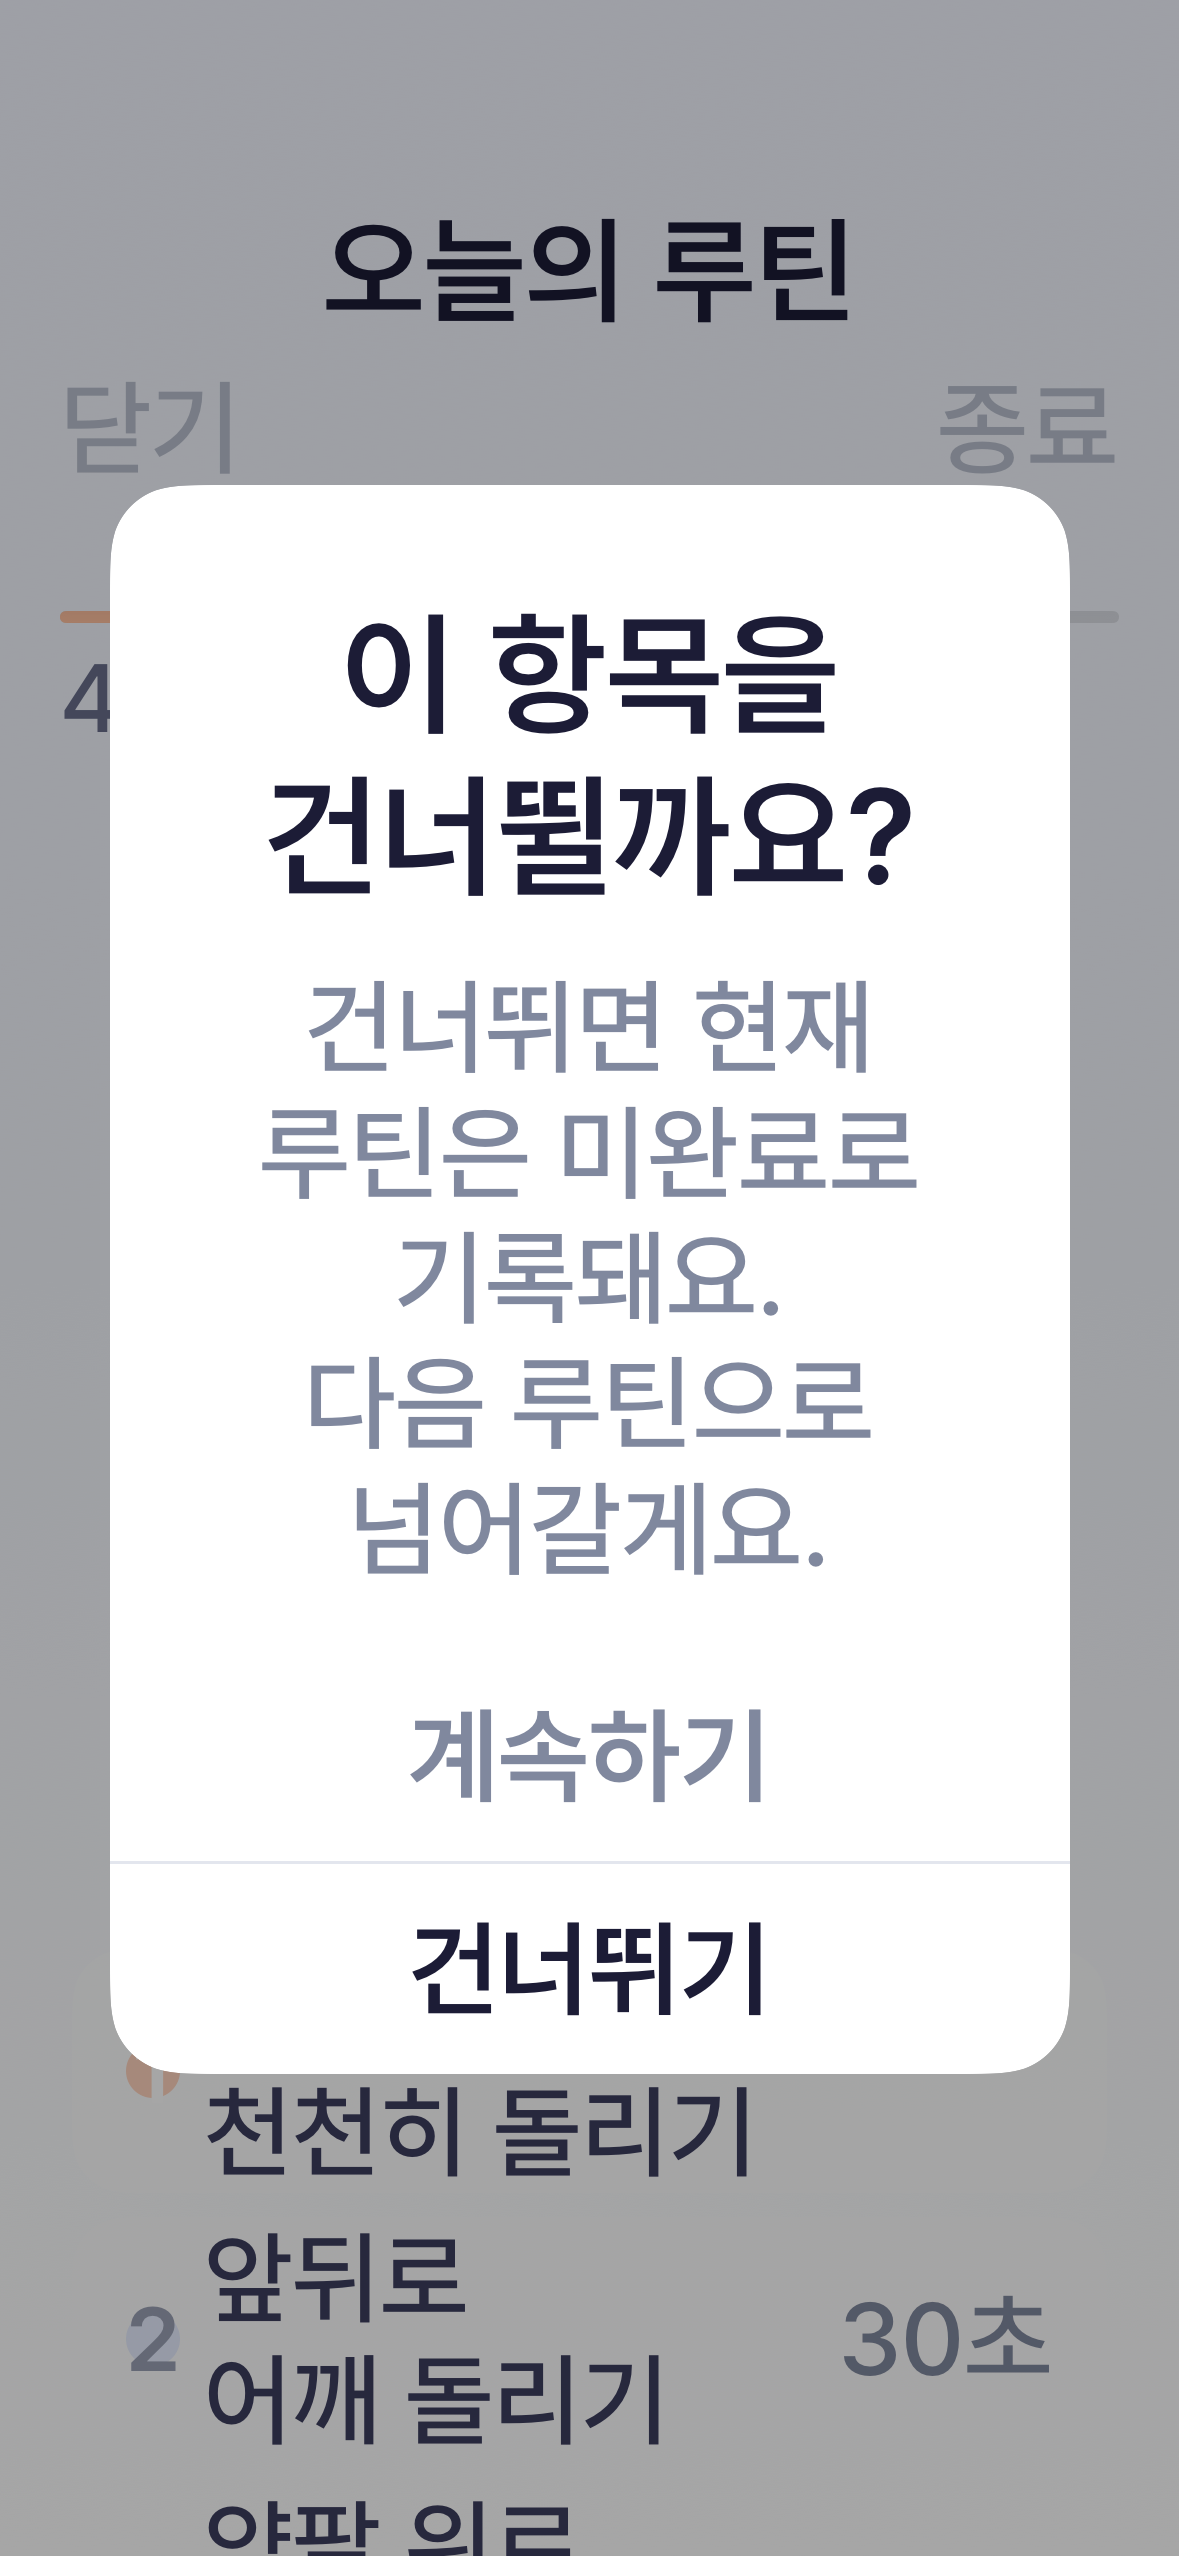
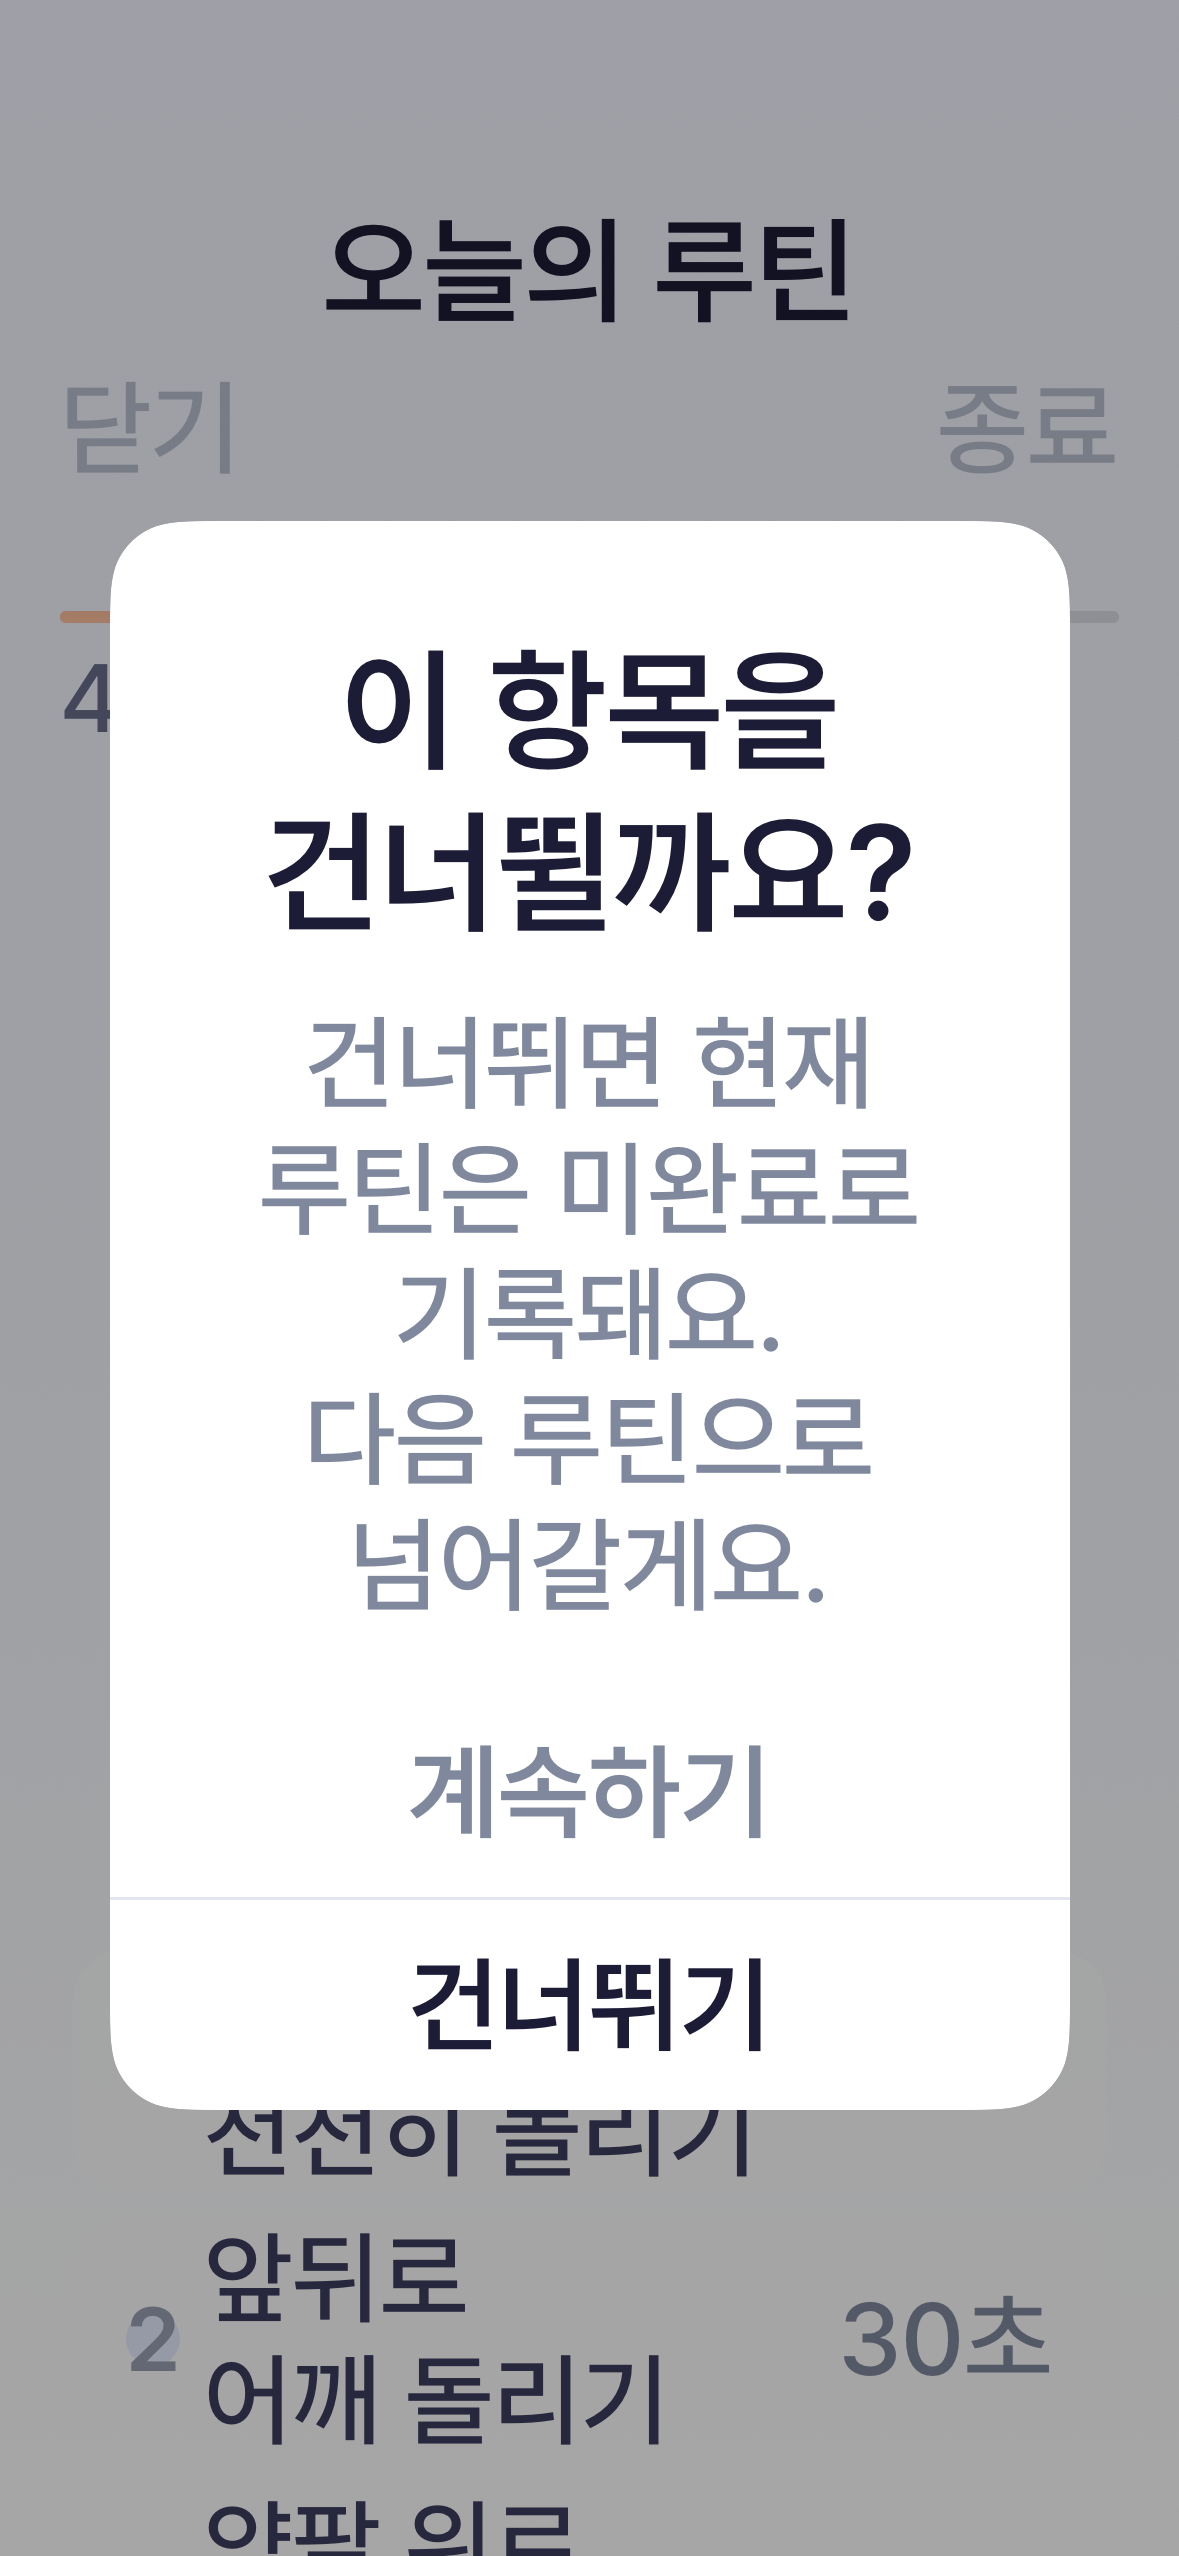
[Fix] RoutinePlayer 리뷰 피드백 반영

Changed region(s): [[0.0916, 0.1854, 0.916, 0.8345]]

diff --git a/Moru/MoruTests/RoutinePlayerFigmaVisualTests.swift b/Moru/MoruTests/RoutinePlayerFigmaVisualTests.swift
@@ -7,6 +7,7 @@
 
 import Foundation
 import SwiftUI
+import UIKit
 import XCTest
 @testable import Moru
 
@@ -57,6 +58,12 @@ final class RoutinePlayerFigmaVisualTests: XCTestCase {
         "제자리 가볍게 걷기",
       ]
     )
+    XCTAssertEqual(
+      RoutinePlayerCopy.timerSegments(for: stretchingStep)?.map {
+        $0.durationSeconds ?? 60
+      },
+      [60, 30, 30, 60]
+    )
   }
 
   func testRoutinePlayerStatesRenderDeterministicallyAtReferenceVariants() async throws {
@@ -86,8 +93,97 @@ final class RoutinePlayerFigmaVisualTests: XCTestCase {
         XCTAssertEqual(first.size, CGSize(width: 393, height: 852))
         XCTAssertEqual(first.scale, 3)
         XCTAssertEqual(first.pngData(), second.pngData())
+        try assertMatchesApprovedBaseline(
+          first,
+          state: state,
+          variant: variant
+        )
       }
     }
+  }
+
+  private func assertMatchesApprovedBaseline(
+    _ image: UIImage,
+    state: RoutinePlayerCaptureState,
+    variant: MoruVisualCaptureVariant,
+    file: StaticString = #filePath,
+    line: UInt = #line
+  ) throws {
+    let baselineURL = URL(fileURLWithPath: #filePath)
+      .deletingLastPathComponent()
+      .deletingLastPathComponent()
+      .appendingPathComponent(
+        "docs/figma-pilot-review-bundle/P4-routine-player-completion/states"
+      )
+      .appendingPathComponent("\(state.rawValue)-\(variant.rawValue)")
+      .appendingPathComponent("after.png")
+    let baseline = try XCTUnwrap(
+      UIImage(contentsOfFile: baselineURL.path),
+      "Missing approved visual baseline: \(baselineURL.path)",
+      file: file,
+      line: line
+    )
+    let actualHash = try visualHash(for: image)
+    let baselineHash = try visualHash(for: baseline)
+    let distance = zip(actualHash, baselineHash).reduce(0) { result, pair in
+      result + Int((pair.0 ^ pair.1).nonzeroBitCount)
+    }
+
+    XCTAssertLessThanOrEqual(
+      distance,
+      24,
+      "Visual regression in \(state.rawValue)-\(variant.rawValue), "
+        + "hash distance: \(distance)",
+      file: file,
+      line: line
+    )
+  }
+
+  private func visualHash(for image: UIImage) throws -> Data {
+    let width = 17
+    let height = 32
+    var pixels = [UInt8](repeating: 0, count: width * height * 4)
+    let context = try XCTUnwrap(
+      CGContext(
+        data: &pixels,
+        width: width,
+        height: height,
+        bitsPerComponent: 8,
+        bytesPerRow: width * 4,
+        space: CGColorSpaceCreateDeviceRGB(),
+        bitmapInfo: CGImageAlphaInfo.premultipliedLast.rawValue
+      )
+    )
+    let cgImage = try XCTUnwrap(image.cgImage)
+    context.interpolationQuality = .high
+    context.draw(cgImage, in: CGRect(x: 0, y: 0, width: width, height: height))
+
+    var luminance = [Int]()
+    luminance.reserveCapacity(width * height)
+    for offset in stride(from: 0, to: pixels.count, by: 4) {
+      let red = 299 * Int(pixels[offset])
+      let green = 587 * Int(pixels[offset + 1])
+      let blue = 114 * Int(pixels[offset + 2])
+      luminance.append((red + green + blue) / 1_000)
+    }
+
+    var hash = Data(capacity: (width - 1) * height / 8)
+    var byte: UInt8 = 0
+    var bitIndex = 0
+    for row in 0..<height {
+      for column in 0..<(width - 1) {
+        if luminance[row * width + column] > luminance[row * width + column + 1] {
+          byte |= 1 << (7 - bitIndex)
+        }
+        bitIndex += 1
+        if bitIndex == 8 {
+          hash.append(byte)
+          byte = 0
+          bitIndex = 0
+        }
+      }
+    }
+    return hash
   }
 
   private func view(

diff --git a/Moru/Moru/RoutineFlow/RoutinePlayer/RoutinePlayerCopy.swift b/Moru/Moru/RoutineFlow/RoutinePlayer/RoutinePlayerCopy.swift
@@ -9,6 +9,7 @@ enum RoutinePlayerCopy {
   struct TimerSegment: Equatable {
     let title: String
     let duration: String?
+    let durationSeconds: Int?
   }
 
   private static let bedMakingPresetIDs: Set<String> = [
@@ -91,10 +92,26 @@ enum RoutinePlayerCopy {
     }
 
     return [
-      TimerSegment(title: "목 좌우로 천천히 돌리기", duration: nil),
-      TimerSegment(title: "앞뒤로 어깨 돌리기", duration: "30초"),
-      TimerSegment(title: "양팔 위로 쭉 뻗기", duration: "30초"),
-      TimerSegment(title: "제자리 가볍게 걷기", duration: "1분"),
+      TimerSegment(
+        title: "목 좌우로 천천히 돌리기",
+        duration: nil,
+        durationSeconds: nil
+      ),
+      TimerSegment(
+        title: "앞뒤로 어깨 돌리기",
+        duration: "30초",
+        durationSeconds: 30
+      ),
+      TimerSegment(
+        title: "양팔 위로 쭉 뻗기",
+        duration: "30초",
+        durationSeconds: 30
+      ),
+      TimerSegment(
+        title: "제자리 가볍게 걷기",
+        duration: "1분",
+        durationSeconds: 60
+      ),
     ]
   }
 }

diff --git a/Moru/Moru/RoutineFlow/RoutinePlayer/StepContents/TimerStepContentView.swift b/Moru/Moru/RoutineFlow/RoutinePlayer/StepContents/TimerStepContentView.swift
@@ -275,14 +275,7 @@ struct TimerStepContentView: View {
     private var activeTimerSegmentIndex: Int {
         guard let timerSegments else { return 0 }
         let segmentDurations = timerSegments.map { segment -> Int in
-            switch segment.duration {
-            case "30초":
-                return 30
-            case "1분":
-                return 60
-            default:
-                return 60
-            }
+            segment.durationSeconds ?? 60
         }
         let elapsedSeconds = max(totalSeconds - remainingSeconds, 0)
         var cumulativeSeconds = 0

diff --git a/Moru/Moru/RoutineFlow/RoutinePlayer/Dialogs/EndRoutineDialogView.swift b/Moru/Moru/RoutineFlow/RoutinePlayer/Dialogs/EndRoutineDialogView.swift
@@ -10,6 +10,7 @@ import SwiftUI
 struct EndRoutineDialogView: View {
     let onCancel: () -> Void
     let onConfirm: () -> Void
+    @Environment(\.dynamicTypeSize) private var dynamicTypeSize
 
     var body: some View {
         ZStack {
@@ -31,7 +32,7 @@ struct EndRoutineDialogView: View {
                 secondaryAction: onConfirm,
                 adaptsForAccessibility: true
             )
-            .offset(y: -12)
+            .offset(y: dynamicTypeSize.isAccessibilitySize ? 0 : -12)
         }
         .accessibilityAddTraits(.isModal)
     }

diff --git a/Moru/Moru/RoutineFlow/RoutinePlayer/Dialogs/SkipStepDialogView.swift b/Moru/Moru/RoutineFlow/RoutinePlayer/Dialogs/SkipStepDialogView.swift
@@ -10,6 +10,7 @@ import SwiftUI
 struct SkipStepDialogView: View {
     let onCancel: () -> Void
     let onConfirm: () -> Void
+    @Environment(\.dynamicTypeSize) private var dynamicTypeSize
 
     var body: some View {
         ZStack {
@@ -31,7 +32,7 @@ struct SkipStepDialogView: View {
                 secondaryAction: onConfirm,
                 adaptsForAccessibility: true
             )
-            .offset(y: -12)
+            .offset(y: dynamicTypeSize.isAccessibilitySize ? 0 : -12)
         }
         .accessibilityAddTraits(.isModal)
     }

diff --git a/Moru/Moru/RoutineFlow/RoutinePlayer/StepContents/InputStepContentView.swift b/Moru/Moru/RoutineFlow/RoutinePlayer/StepContents/InputStepContentView.swift
@@ -138,7 +138,7 @@ struct InputStepContentView: View {
         )
         .foregroundStyle(AppColor.gray350)
         .fixedSize(horizontal: false, vertical: true)
-        .accessibilityLabel("인식된 내용")
+        .accessibilityLabel(RoutinePlayerCopy.transcriptTitle(for: step))
         .accessibilityValue(speechInputController.displayTranscript)
     }
     .frame(maxWidth: .infinity, minHeight: 176, alignment: .topLeading)

diff --git a/Moru/Moru/DesignSystem/Components/MoruDialog.swift b/Moru/Moru/DesignSystem/Components/MoruDialog.swift
@@ -153,7 +153,8 @@ struct MoruDialog: View {
             width: 159.5
           )
         }
-        .frame(width: 320, height: 54)
+        .frame(width: 320)
+        .frame(minHeight: 54)
       }
     }
     .frame(width: 320)

diff --git a/Moru/docs/figma-pilot-review-bundle/P4-routine-player-completion/tests.md b/Moru/docs/figma-pilot-review-bundle/P4-routine-player-completion/tests.md
@@ -6,6 +6,7 @@
   - preset/fallback/구조화 copy
   - 12개 상태 × Medium/AX3 × 2회
   - 48개 PNG, 반복 결과 byte-identical
+  - checked-in approved After baseline과 perceptual hash distance `<= 24`
 - `RoutineFinishedFigmaVisualTests`: pass
   - 5개 상태 × Medium/AX3 × 2회
   - 20개 PNG, 반복 결과 byte-identical
@@ -13,7 +14,7 @@
 ## 자동 검증
 
 - 전체 XCTest: 266 passed, 0 failed, 0 skipped
-- P3/P4 시각 회귀 재검증: 4 passed, 0 failed, 0 skipped
+- P3/P4/D2 시각 회귀 재검증: 5 passed, 0 failed, 0 skipped
 - iPhone 16 simulator Debug build: passed
 - generic iOS device Debug build: passed
 - generic iOS device Release build: passed
@@ -21,6 +22,13 @@
 - `Scripts/check-swiftdata-boundary.sh`: passed
 - `plutil -lint Moru/Info.plist`: passed
 - `git diff --check`: passed
+
+CodeRabbit 후속 검토에서 adaptive dialog button row의 가변 높이,
+AX Dynamic Type의 Skip/End dialog 위치, transcript accessibility label,
+approved visual baseline assertion을 보강했다. 표시용 timer duration을
+active segment 계산에서 다시 파싱하지 않도록 명시적 초 단위 값으로
+분리했다. 변경된 Skip/End AX3 After baseline도 같은 환경에서 다시
+캡처하고 육안 검토했다.
 
 첫 parallel 전체 실행에서 P3 delete dialog baseline이 변경된 유효한
 회귀를 발견했다. 공통 `MoruDialog`의 기존 render를 default로 복구하고
